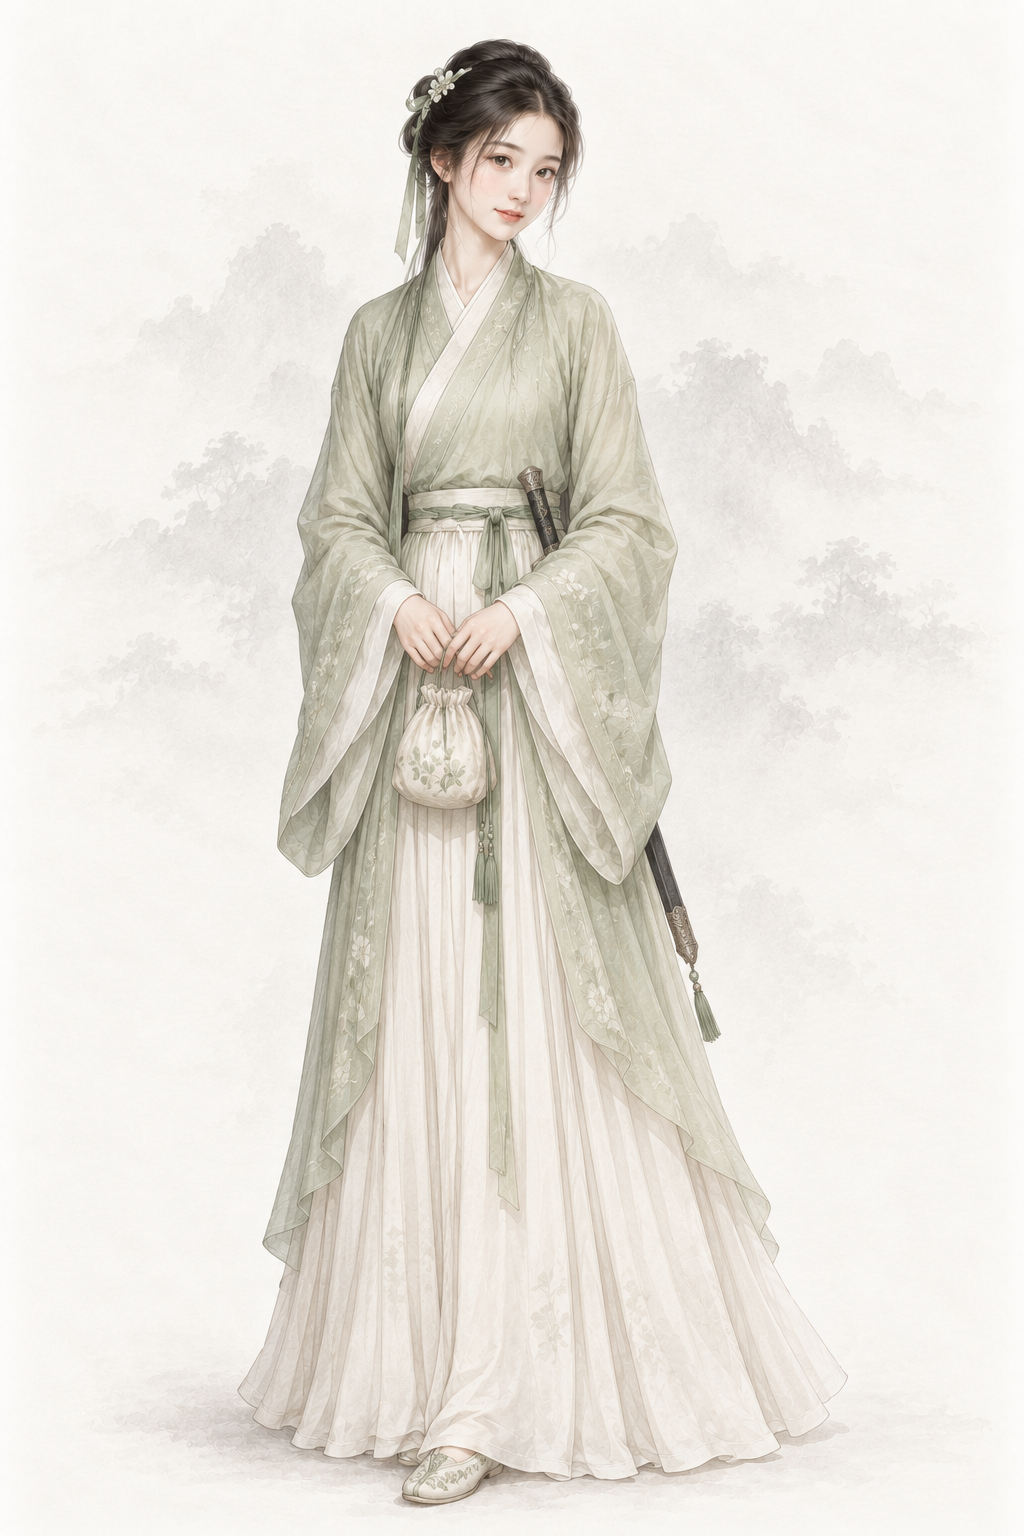
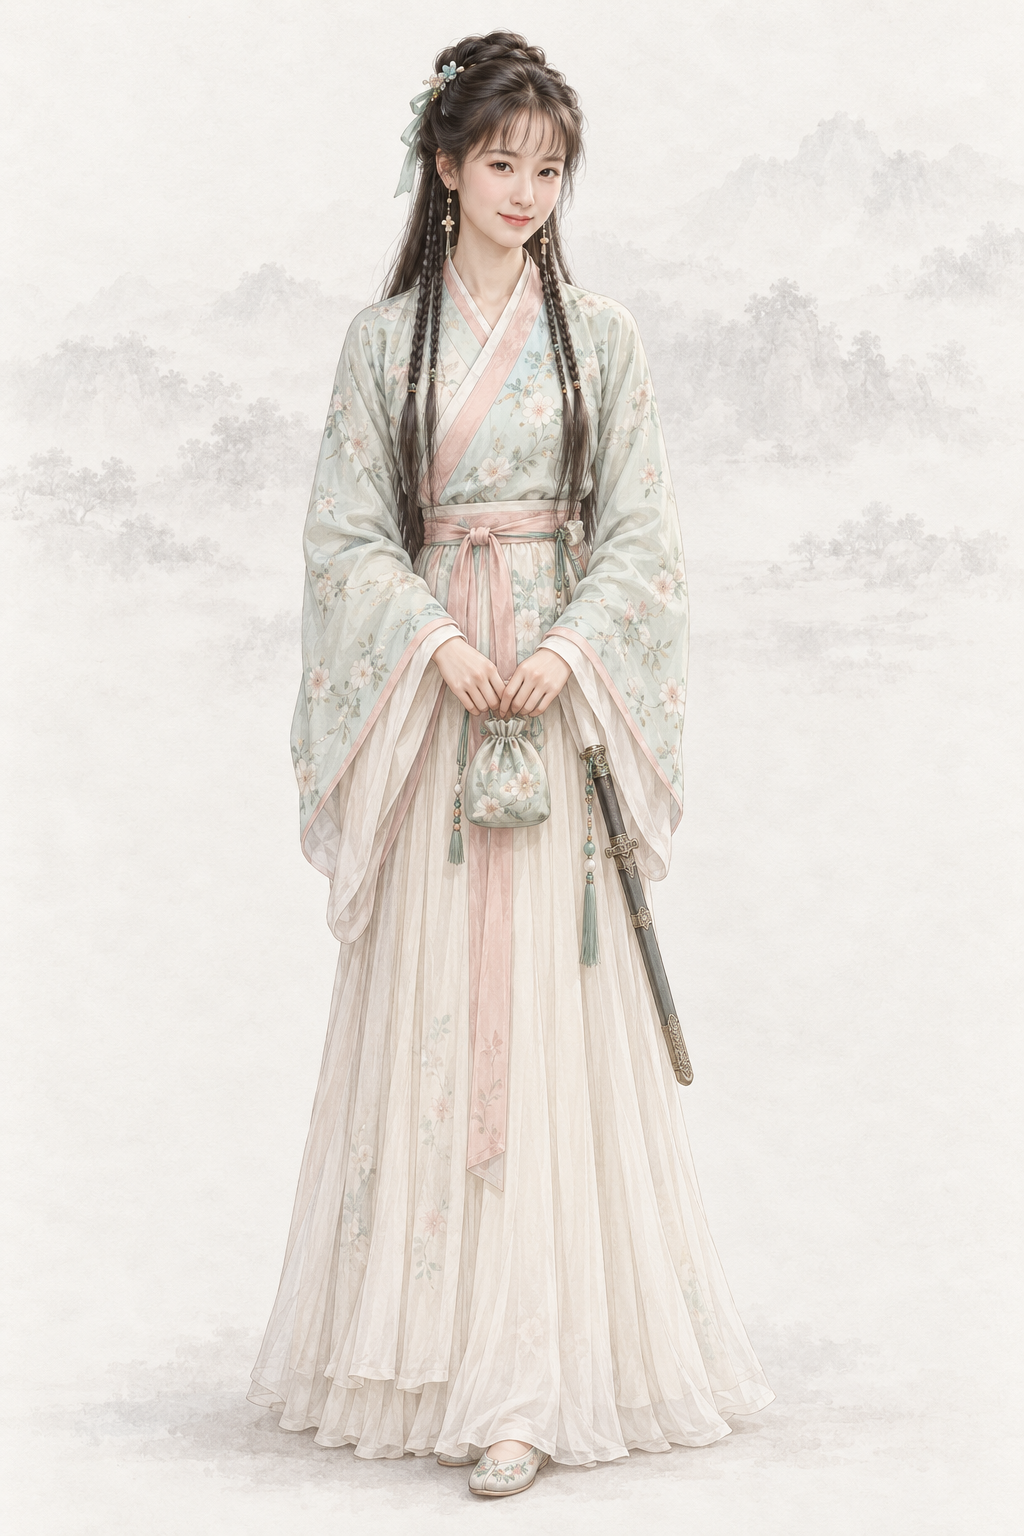
assets(character): por_npc_mujianping__ch08_youth_base 沐剑屏（codex · AR-32 经典剧照重出）
1998 年 TVB《鹿鼎记》剧照 1 张 + 基线；提示词写回「## Gemini 提示词」，上一版留作历史，frontmatter 加 classic_ref。

diff --git a/assets/default/prompts/characters/ch08-luding/npc_mujianping.md b/assets/default/prompts/characters/ch08-luding/npc_mujianping.md
@@ -17,15 +17,42 @@ references:
   use: 第三参考仅背景：暖浅灰纸底、极浅低对比水墨远山、薄雾和留白，已实际view。完全忽略王语嫣面容、年龄、体型、发髻、倾头转身、白青衣装和饰物；墨迹纸纹不得侵入沐剑屏的皮肤、衣料和器物。
 status: new
 redo_reason: "沐剑屏（S）缺图：旧稿按 13–16 岁少女并以剧照作脸，两次被出图服务以 sexual 拦截；改为约二十岁成年人、纯文字面容补出。"
-reference_upload:
-- assets/default/baseline/character/female/ref_npc_wangyuyan__ch01_base01.png
 realism_revision: user_identity_pose_20261001
 codex_prompt_rev: 2026-10-02
+classic_ref:
+  version: "1998 年 TVB《鹿鼎记》"
+  stills:
+  - ".agents/coord/imagegen-reference/identity-20261001/luding/mujianping_1998_kuangwenxun_comparison.jpg"
+  note: "剧照缩到长边 1024 的 JPEG 上传，放在两张同性别基线之前（AR-32）；mujianping_1998_kuangwenxun_comparison.jpg 裁切框 (0.0, 0.2, 0.44, 1.0)"
+reference_upload:
+- .agents/coord/imagegen-reference/identity-20261001/luding/mujianping_1998_kuangwenxun_comparison.jpg
+- assets/default/baseline/character/female/ref_npc_wangyuyan__ch01_base01.png
+- assets/default/baseline/character/female/ref_npc_xiaolongnv__ch03_base01.png
 ---
 
 # 沐剑屏 · 人物写实修正
 
 ## Gemini 提示词
+
+> 2026-10-02 AR-32 经典剧照重出（6 号出图员，codex exec · image_gen 出图）：上传该角色经典影视版剧照 1 张（1998 年 TVB《鹿鼎记》：mujianping_1998_kuangwenxun_comparison.jpg）在前、两张同性别基线在后。剧照只借鉴发型、服饰、配色、标志道具、气质与面部特征，重新绘制成项目画风，不照搬照片的构图、光影和姿势；人物一律成年。提示词里不写演员名。上一版提示词保留在下一节作历史。
+
+```text
+生成一张 2:3 竖幅全身人物立绘：单人、单一视角、完整全身——头顶、双手、双脚和手中器物的两端都在画面内，四周留出自然空白；人物站姿自然，身体基本朝向正面，头部端正（不歪头、不仰不俯），镜头平视。
+【参考图】随提示词上传 3 张参考图。第 1 张参考图是该角色经典影视造型的剧照：借鉴其发型、服饰、配色、标志道具、气质和面部特征，让人一眼认出是这个角色；但必须重新绘制成项目画风，不要照片质感，不要照搬剧照的构图、光影、背景和姿势，也不要做成照片修图。剧照与下文文字不一致的地方（年龄、所处阶段、帽饰与衣装细节、手中器物），以下文文字为准；画中人一律是成年人。最后两张是本项目画风基线：画风、用色、光线、质感和暖浅灰纸底加淡水墨背景以它们为准。
+【画风】写实手绘古风人物插画，与本项目写实武侠角色立绘同一画风，像功力深厚的画师用细腻笔触画出的真实美人。手绘插画质感，不是 CG 渲染：不要过度光滑的皮肤、完美对称的五官、塑料高光、过度锐利的发丝；保留自然的笔触和细微不完美。肌肤细腻自然，看得见极细的肤理和自然的左右不对称，不磨皮、不油亮、不打粉；头发是一缕缕自然的发丝和少量碎发；布料看得出经纬纹理、厚薄和自然垂坠的褶皱，干净完整；整体设色低饱和、雅致；柔和的自然光从左上方照来，明暗过渡自然，不打舞台光、轮廓光或美颜柔光。不是照片，不是三维渲染，不是动漫或游戏 CG，也不是油画（没有厚涂笔触和画布纹理）。
+【背景】不透明的暖浅灰色纸底，只在远处有极淡的水墨远山和薄雾，大面积留白；人物与背景明暗分明、轮廓边缘干净完整（后续要自动抠图），水墨和纸纹只在背景里，不侵入人物和衣服；脚下只有很淡的一点接触阴影。
+【人物】沐剑屏，《鹿鼎记》中沐王府的郡主，在宫中藏匿获救、初识韦小宝的时期。
+【年龄与体态】外观约二十岁的成年年轻女子，身材纤巧但为成人比例，体态端正。
+【经典造型】要一眼认出是沐王府小郡主沐剑屏——浅湖绿碎花袄、米白裙、薄刘海和鬓边细辫、发间珠花、腰佩小剑，天真娇憨、温柔腼腆；秀美可爱，但是成年女子。
+【面容】脸以剧照为底子——保留剧照里这个角色的脸型、眉眼、鼻唇的比例关系和神气，画成成年人；圆润秀气的小鹅蛋脸，面颊柔和，下巴短圆；眉毛弯弯；眼睛明亮清澈，神情天真单纯，带着好奇和一点娇憨；鼻子小巧圆润；嘴唇柔和，嘴角带着腼腆的笑；肤色白里透红，有真实纹理。世家小姐的天真温柔。
+【发式】额前一层稀薄的碎刘海；黑发在脑后挽成低髻，系一条浅绿色丝带、簪一朵小珠花，两鬓各垂下两三条细辫。
+【服饰】清初汉族世家小姐装——浅湖绿色带细碎花纹的交领长袄（右衽，领缘镶一道浅粉窄边）、米白长裙、绣花平底鞋；衣料考究但不华丽。
+【道具与姿态】左腰佩一柄小巧的连鞘长剑；双手在身前轻提一只小布包；端正站立。
+【不要】画面里不要任何文字、题款、印章、签名、水印、台标、边框、分格或多视图；不要第二个人；不要幼态（童颜、娃娃脸、婴儿肥、儿童或少年身材、大头小身）；不要塑料感皮肤、磨皮美颜、网红脸（尖下巴大眼高鼻的模板脸）、过度对称、浓妆、偶像式打光、蜡像感；不要照片质感、三维渲染或动漫大眼；不要歪头、斜镜头；不要多指、缺指（设定的伤残除外）、手与器物粘连或悬空；汉式交领必须右衽（穿着者的左襟压在右襟上），不要左衽（设定为少数民族服制的除外），不要水平镜像；不要现代物品、日式服饰或日本刀、发光特效、法阵或能量光。不要照片或照片修图的质感，不要照搬剧照的构图、光影、背景和姿势，不要剧照里的字幕、台标和水印。不要童颜和少女身材；不要宫廷旗装；不要和方怡同一张脸。清初汉族女子仍穿明式袄裙：汉式交领一律右衽（穿着者左襟压右襟），不要左衽、不要水平镜像。
+【画风基线】随提示词上传的参考图里，最后两张是本项目的立绘画风基线：只参考它们的画风、用色、光线、质感和暖浅灰纸底加淡水墨的背景处理，整体画风必须与它们一致——精细写实的数字手绘插画，不是油画，不要厚涂笔触和画布纹理。基线图只取画风，不取长相：不要照搬基线图里人物的长相、年龄、发型、服饰和姿势。
+```
+
+## 上一版 Gemini 提示词（2026-10-02 文字版；AR-32 经典剧照重出前，历史，不再用于出图）
 
 > 2026-10-02 Codex 人物线 2 号（AR-31）：在审核组稿上补一行「经典形象」（借鉴公认经典造型的发式、装束、配色、标志道具与气质，只写文字，不写演员名、不上传剧照），并补去 AI 化要求。本轮出图用下面第一个代码块；审核组原稿保留在其后的「审核组原稿」小节作历史。
 
